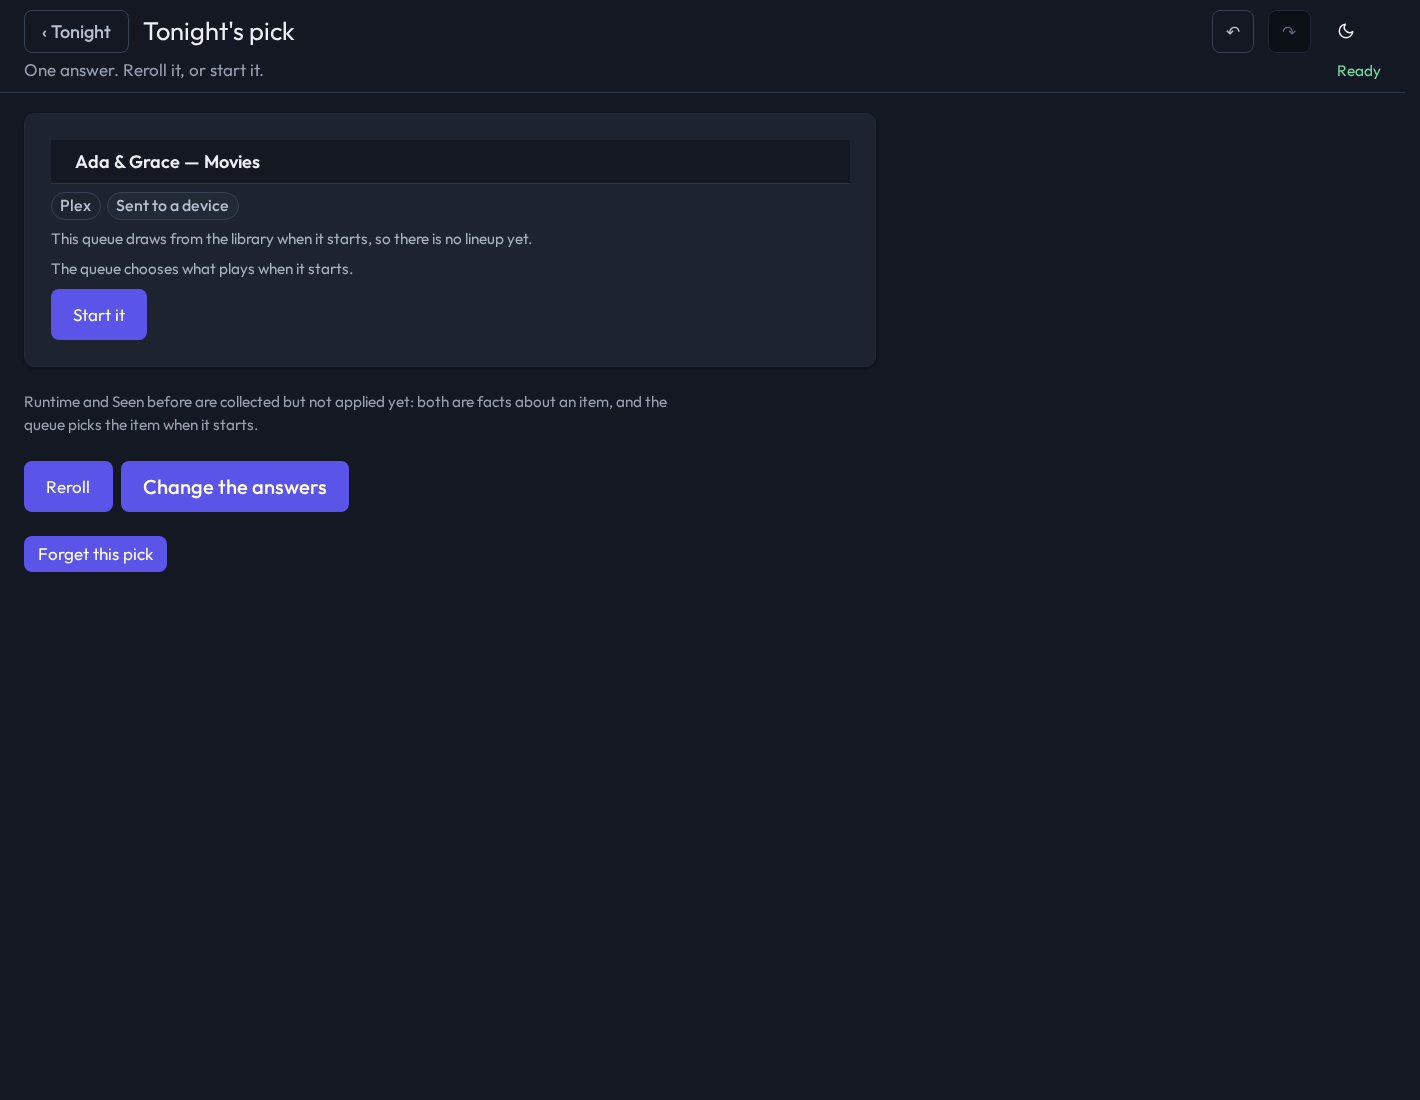
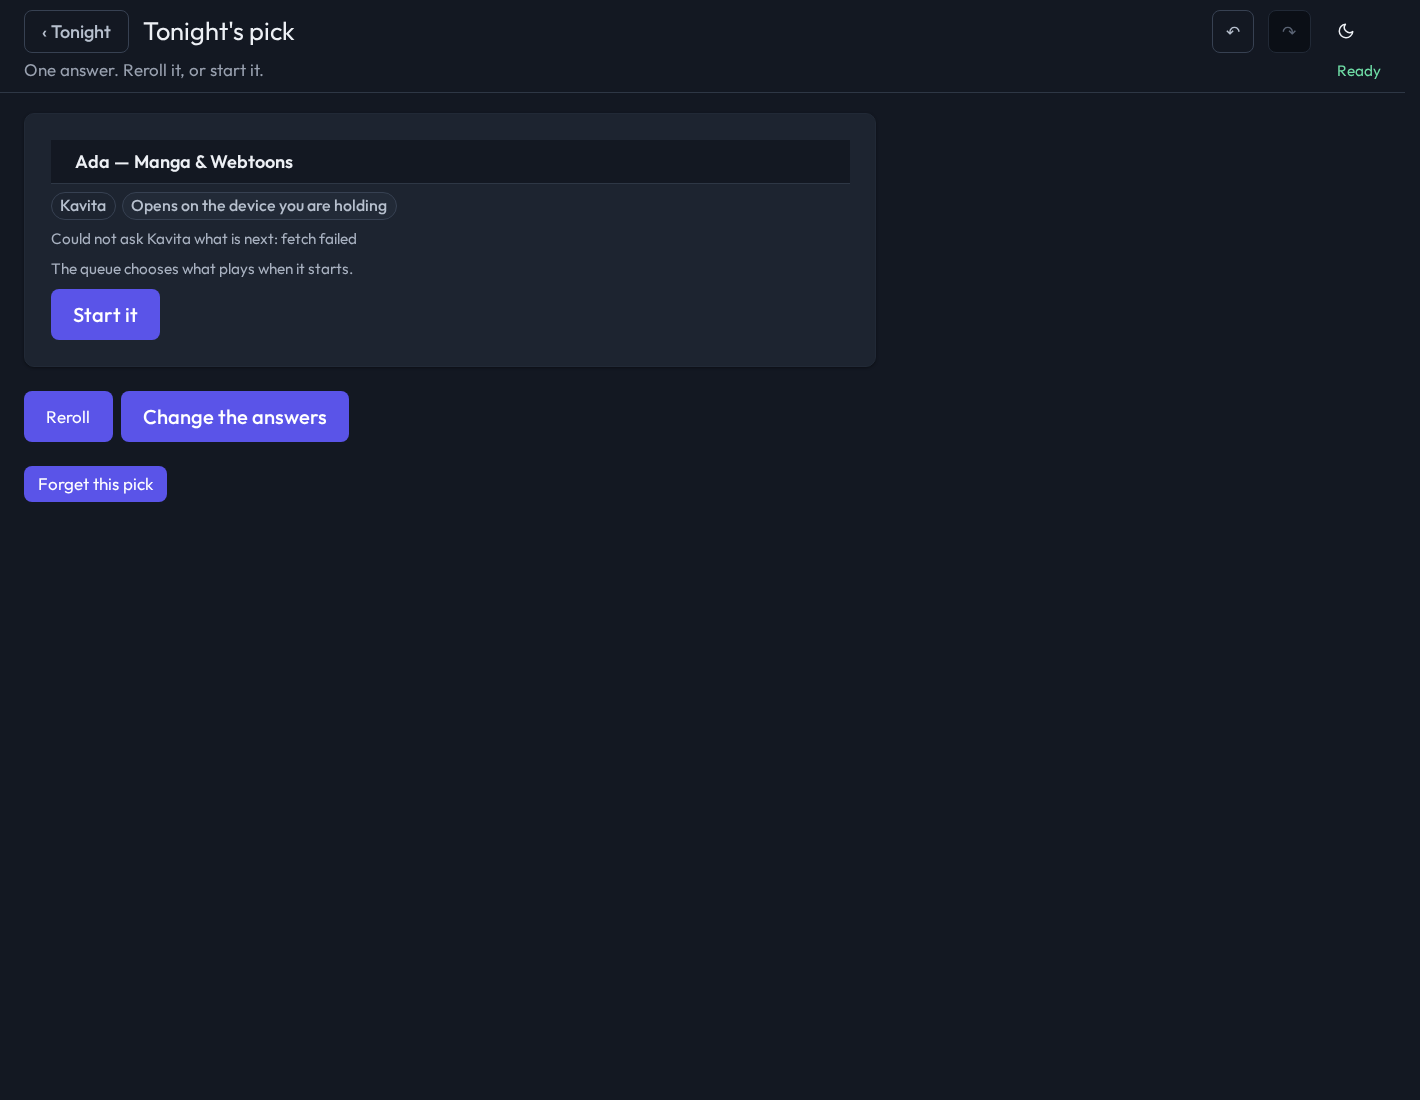
test(tonight): the preset gate names a PERSON, now that a queue has a roster
#215 landed while this was in review and wired the people filter through to the
Which queue? list, seeding the Tonight fixture with real `queue_people` rows. So
the headline case stops being "two guests" and becomes the example the absorb brief
actually gives for a preset somebody would use: Ada · Reading, which resolves to
the one queue Ada is filed on.

Guests keep a case of their own. An anonymous seat is somebody at the table, and
that is what stops the who's-here rule from meaning "only people the app already
knows about".

Screenshots re-shot against the same fixture on both sides.

diff --git a/e2e/tonight-preset-test.ts b/e2e/tonight-preset-test.ts
@@ -60,17 +60,12 @@ try {
 
   // ── 1. A VALID PRESET LANDS ON THE RESULT CARD ──────────────────────────────────── //
   //
-  // Movies is queue-first: the draw picks one queue for the activity and the people at the
-  // table, and the card names it. `movie_night` is the fixture's Plex movies rotation.
-  //
-  // ⚠ The card says `guests=2` rather than naming a person, and that is the FIXTURE's
-  // constraint rather than the feature's. None of the Tonight fixture's queues carries a
-  // roster (WP-5's `queue_people` rows are seeded from groups, and the fixture has none), so
-  // ticking a name filters every queue out — which case 6 pins as its own behaviour. Guests
-  // are the other half of "who's here" and they satisfy the same rule: an anonymous seat is
-  // still somebody at the table.
+  // "Ada · Reading" — the example the absorb brief §2 gives for a preset somebody would
+  // actually use. Reading is queue-first, so the draw picks one queue for the activity and
+  // the people the card names; `manga_webtoons` is the fixture's Kavita queue and Ada is the
+  // one person filed on it.
   {
-    await tap('/tonight/go?activity=movies&guests=2');
+    await tap('/tonight/go?activity=reading&people=ada');
 
     ok('a valid preset card lands on /result', path() === '/result', page.url());
     ok('…and a result CARD is on the screen', await isVisible('#result-card'));
@@ -85,8 +80,8 @@ try {
 
     const card = (await page.locator('#result-card').textContent()) ?? '';
     ok(
-      '…naming the queue that was drawn',
-      card.includes('Movies'),
+      '…naming the queue the CARD’s people resolved to',
+      card.includes('Manga'),
       card.replace(/\s+/g, ' ').slice(0, 120),
     );
 
@@ -94,6 +89,19 @@ try {
     // a queue arrival — and that one has no reroll because the queue already chose.)
     ok('…with a reroll, because a preset picked and a queue did not', await isVisible('#result-reroll'));
   }
+
+  // ── 1b. GUESTS ALONE ARE ALSO "WHO'S HERE" ──────────────────────────────────────── //
+  //
+  // An anonymous seat is somebody at the table. A card for a room whose occupants have no
+  // roster rows still draws — which is what stops the who's-here rule from meaning "only
+  // people the app already knows about".
+  {
+    await tap('/tonight/go?activity=movies&guests=2');
+
+    ok('a card carrying only guests still draws', path() === '/result', page.url());
+    ok('…and lands on a card', await isVisible('#result-card'));
+  }
+
 
   // ── 2. THE CARD'S ADDRESS DOES NOT SURVIVE IN THE HISTORY ───────────────────────── //
   //

diff --git a/e2e/shot-tonight-preset.ts b/e2e/shot-tonight-preset.ts
@@ -10,10 +10,8 @@
 // those are the household. The cast is the repo's own — Ada, Grace and Linus
 // (decision `2026-08-19-pr-screenshots-are-fixture-data-never-live`).
 //
-// ⚠ The card in frame 1 says `guests=2` rather than naming a person, and that is the
-// FIXTURE's constraint rather than the feature's: none of the Tonight fixture's queues
-// carries a roster, so ticking a name filters every queue out. Guests are the other half of
-// "who's here" and satisfy the same rule.
+// Frame 1's card is "Ada · Reading" — the example the absorb brief §2 gives for a preset
+// somebody would actually use.
 //
 //   PLAYWRIGHT_BROWSERS_PATH=/tmp/pw-browsers \
 //     server/node_modules/.bin/tsx e2e/shot-tonight-preset.ts --tag=after
@@ -61,8 +59,8 @@ try {
 
   // ── 1. A VALID PRESET CARD ──────────────────────────────────────────────────────── //
   // BEFORE: the Who's-here form, because the address means nothing yet.
-  // AFTER:  the result card, with the queue that was drawn and a reroll.
-  await tap('/tonight/go?activity=movies&guests=2');
+  // AFTER:  the result card, with the queue the card's people resolved to, and a reroll.
+  await tap('/tonight/go?activity=reading&people=ada');
   await shot('valid-card');
 
   // ── 2. A CARD THAT NAMES NOBODY ─────────────────────────────────────────────────── //
